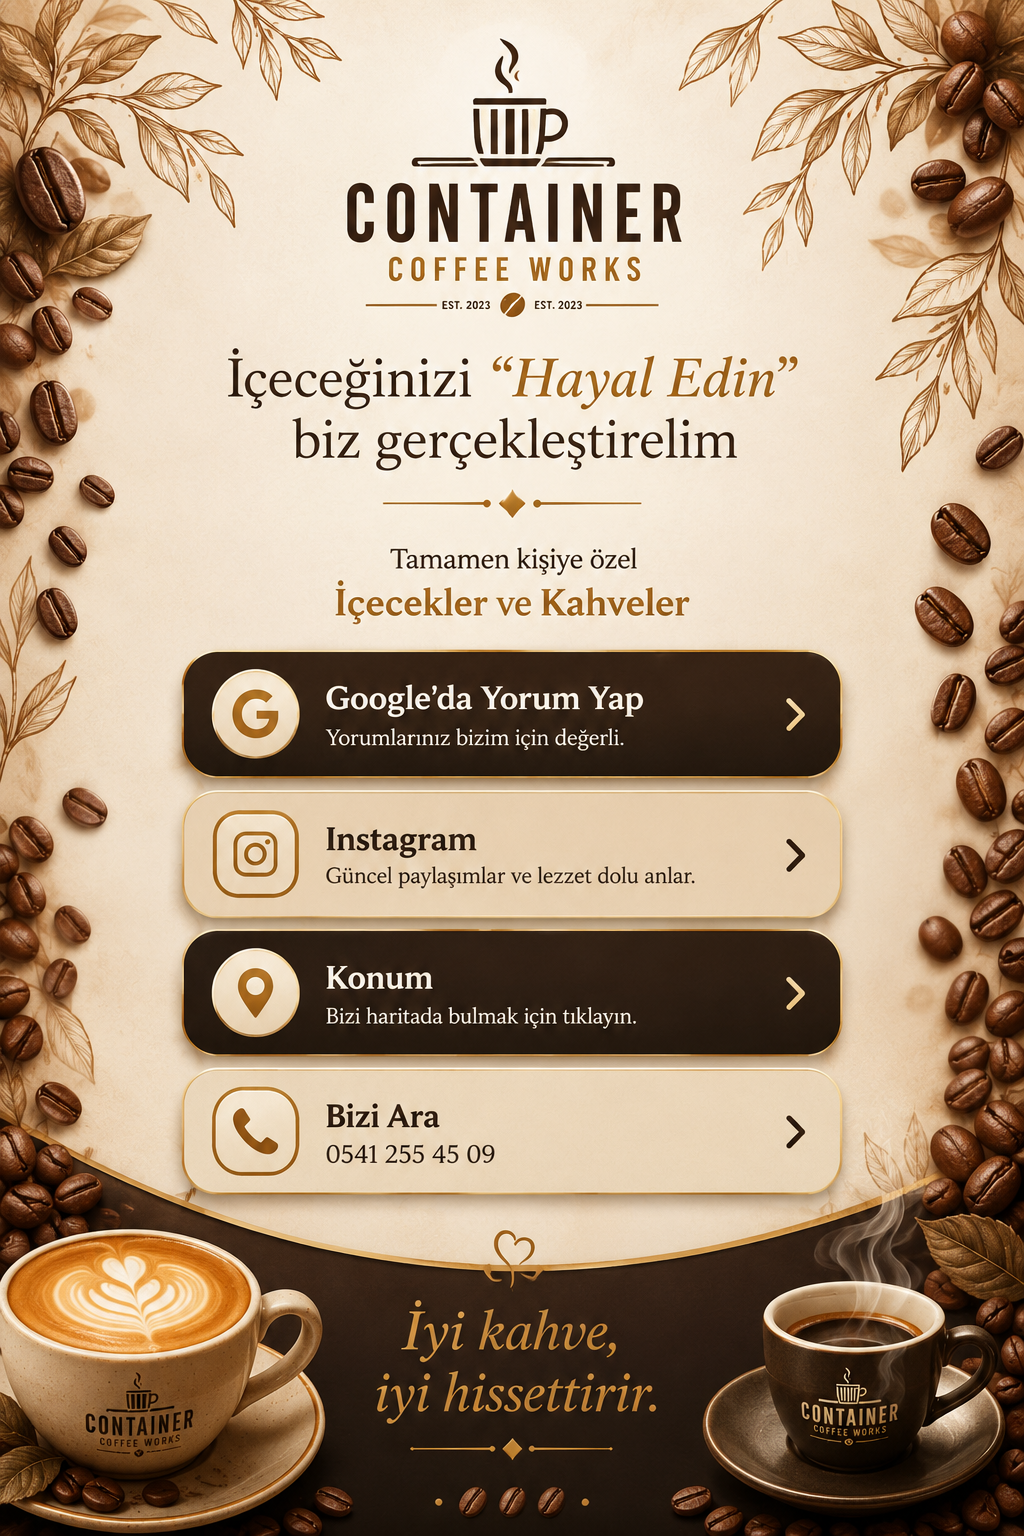
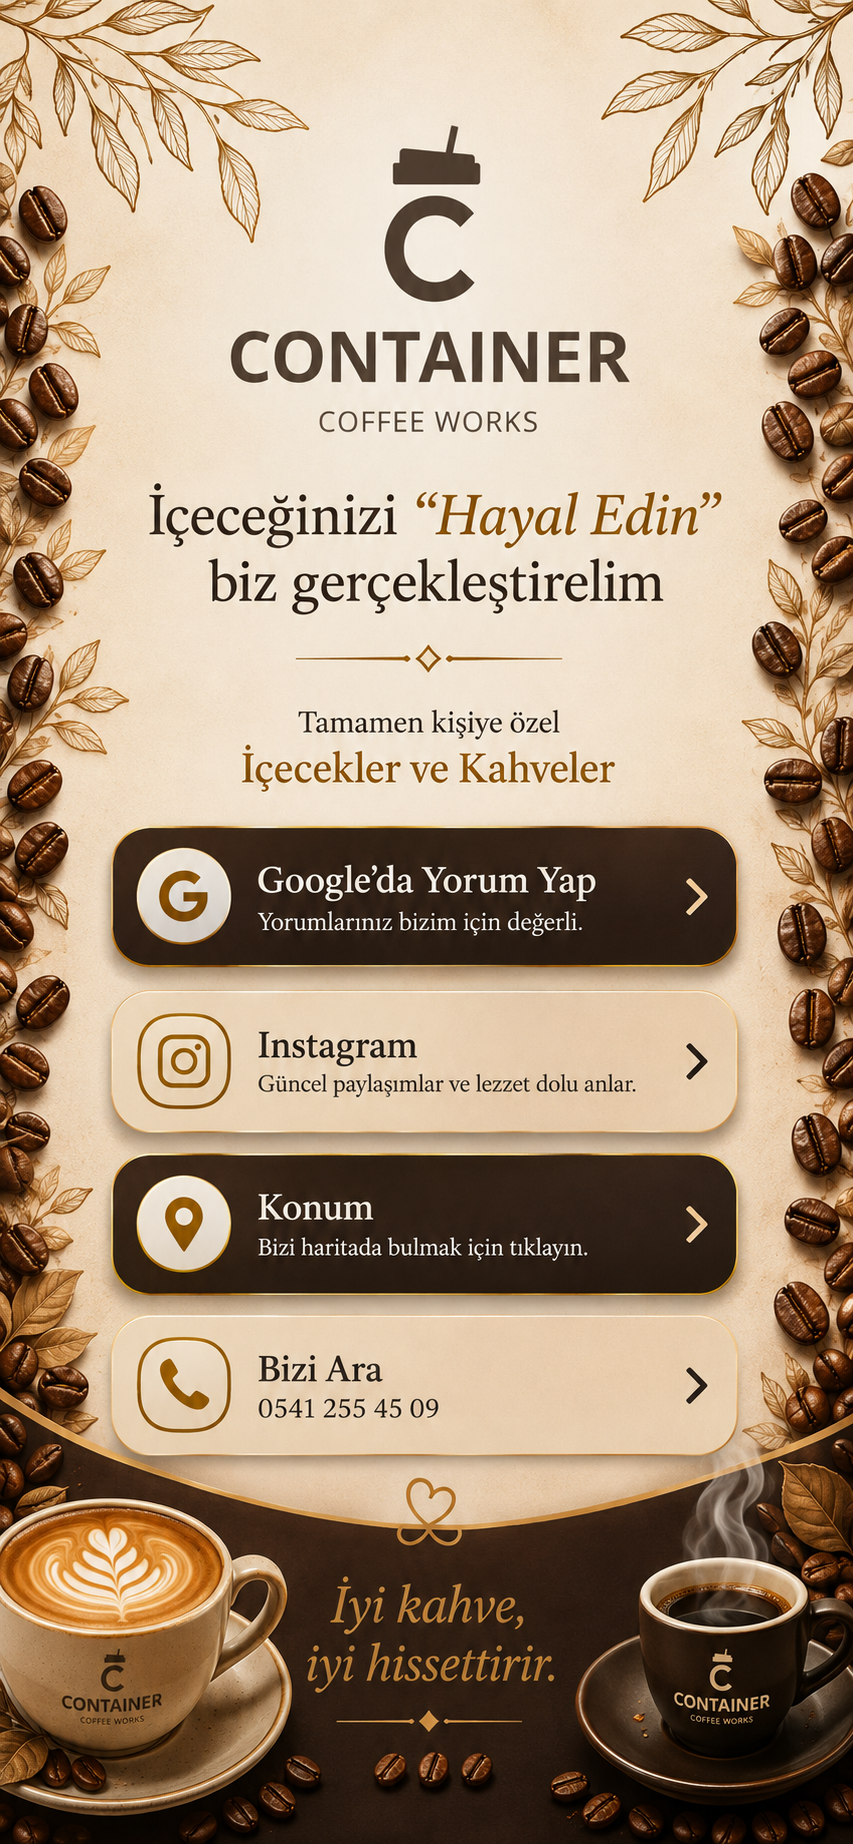
Container yeni premium tasarim

diff --git a/container-coffeeworks/app/page.tsx b/container-coffeeworks/app/page.tsx
@@ -1,51 +1,42 @@
-import Image from "next/image";
-
 export default function Home() {
   return (
-    <main className="min-h-screen bg-[#e9dcc8]">
-      <div className="mx-auto w-full max-w-[520px]">
+    <main className="min-h-[100svh] bg-[#2e1d12]">
+      <div className="relative mx-auto h-[100svh] w-full max-w-[520px] overflow-hidden bg-[#2e1d12]">
 
-        <div className="relative w-full">
+        {/* ANA TASARIM */}
+        <img
+          src="/container-panel.png"
+          alt="Container Coffee Works"
+          className="absolute inset-0 h-full w-full object-cover"
+        />
 
-          {/* TASARIM GÖRSELİ */}
-          <Image
-            src="/container-panel.png"
-            alt="Container Coffee Works"
-            width={1024}
-            height={1536}
-            priority
-            className="h-auto w-full"
-          />
+        {/* GOOGLE */}
+        <a
+          href="/click?link=google"
+          aria-label="Google'da Yorum Yap"
+          className="absolute left-[13%] top-[45.2%] z-20 h-[7.7%] w-[74%] rounded-[24px]"
+        />
 
-          {/* GOOGLE */}
-          <a
-            href="/click?link=google"
-            aria-label="Google'da Yorum Yap"
-            className="absolute left-[17.8%] top-[42.5%] h-[8.3%] w-[64.5%] rounded-[24px]"
-          />
+        {/* INSTAGRAM */}
+        <a
+          href="/click?link=instagram"
+          aria-label="Instagram"
+          className="absolute left-[13%] top-[54%] z-20 h-[7.7%] w-[74%] rounded-[24px]"
+        />
 
-          {/* INSTAGRAM */}
-          <a
-            href="/click?link=instagram"
-            aria-label="Instagram"
-            className="absolute left-[17.8%] top-[51.4%] h-[8.2%] w-[64.5%] rounded-[24px]"
-          />
+        {/* KONUM */}
+        <a
+          href="/click?link=konum"
+          aria-label="Konum"
+          className="absolute left-[13%] top-[62.8%] z-20 h-[7.7%] w-[74%] rounded-[24px]"
+        />
 
-          {/* KONUM */}
-          <a
-            href="/click?link=konum"
-            aria-label="Konum"
-            className="absolute left-[17.8%] top-[60.6%] h-[8.1%] w-[64.5%] rounded-[24px]"
-          />
-
-          {/* TELEFON */}
-          <a
-            href="/click?link=telefon"
-            aria-label="Bizi Ara"
-            className="absolute left-[17.8%] top-[69.6%] h-[8.1%] w-[64.5%] rounded-[24px]"
-          />
-
-        </div>
+        {/* TELEFON */}
+        <a
+          href="/click?link=telefon"
+          aria-label="Bizi Ara"
+          className="absolute left-[13%] top-[71.6%] z-20 h-[7.7%] w-[74%] rounded-[24px]"
+        />
 
       </div>
     </main>
